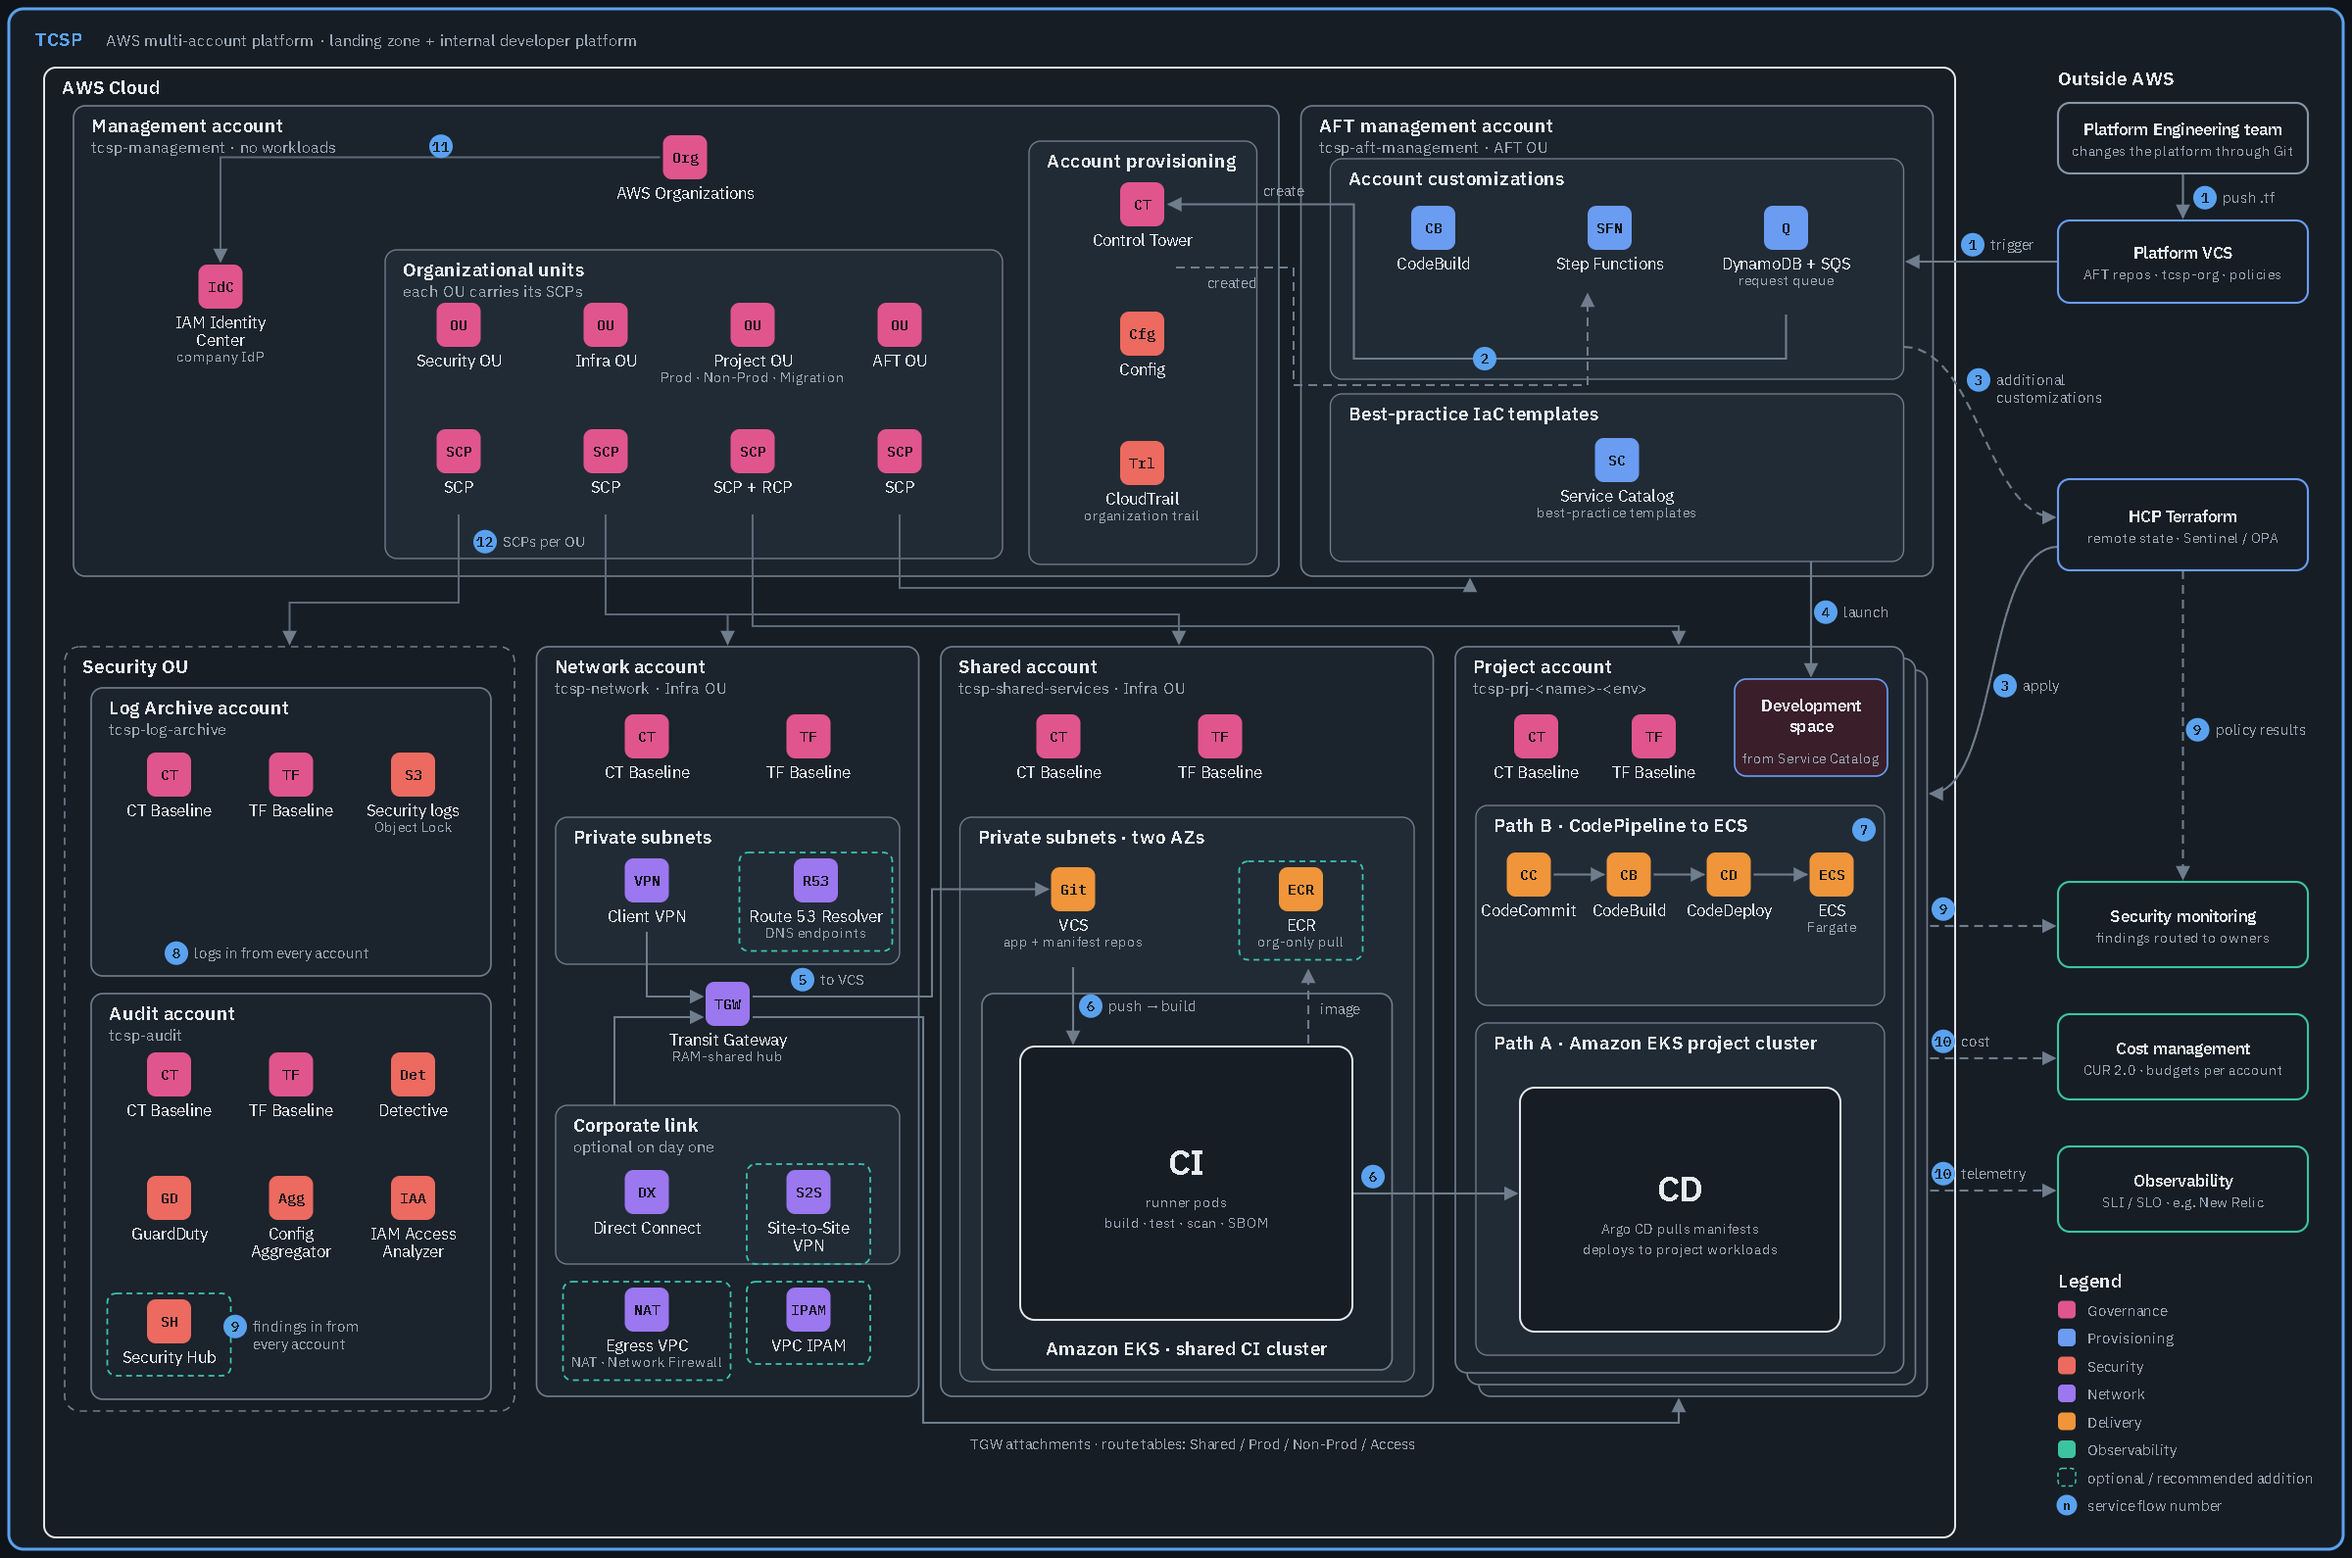
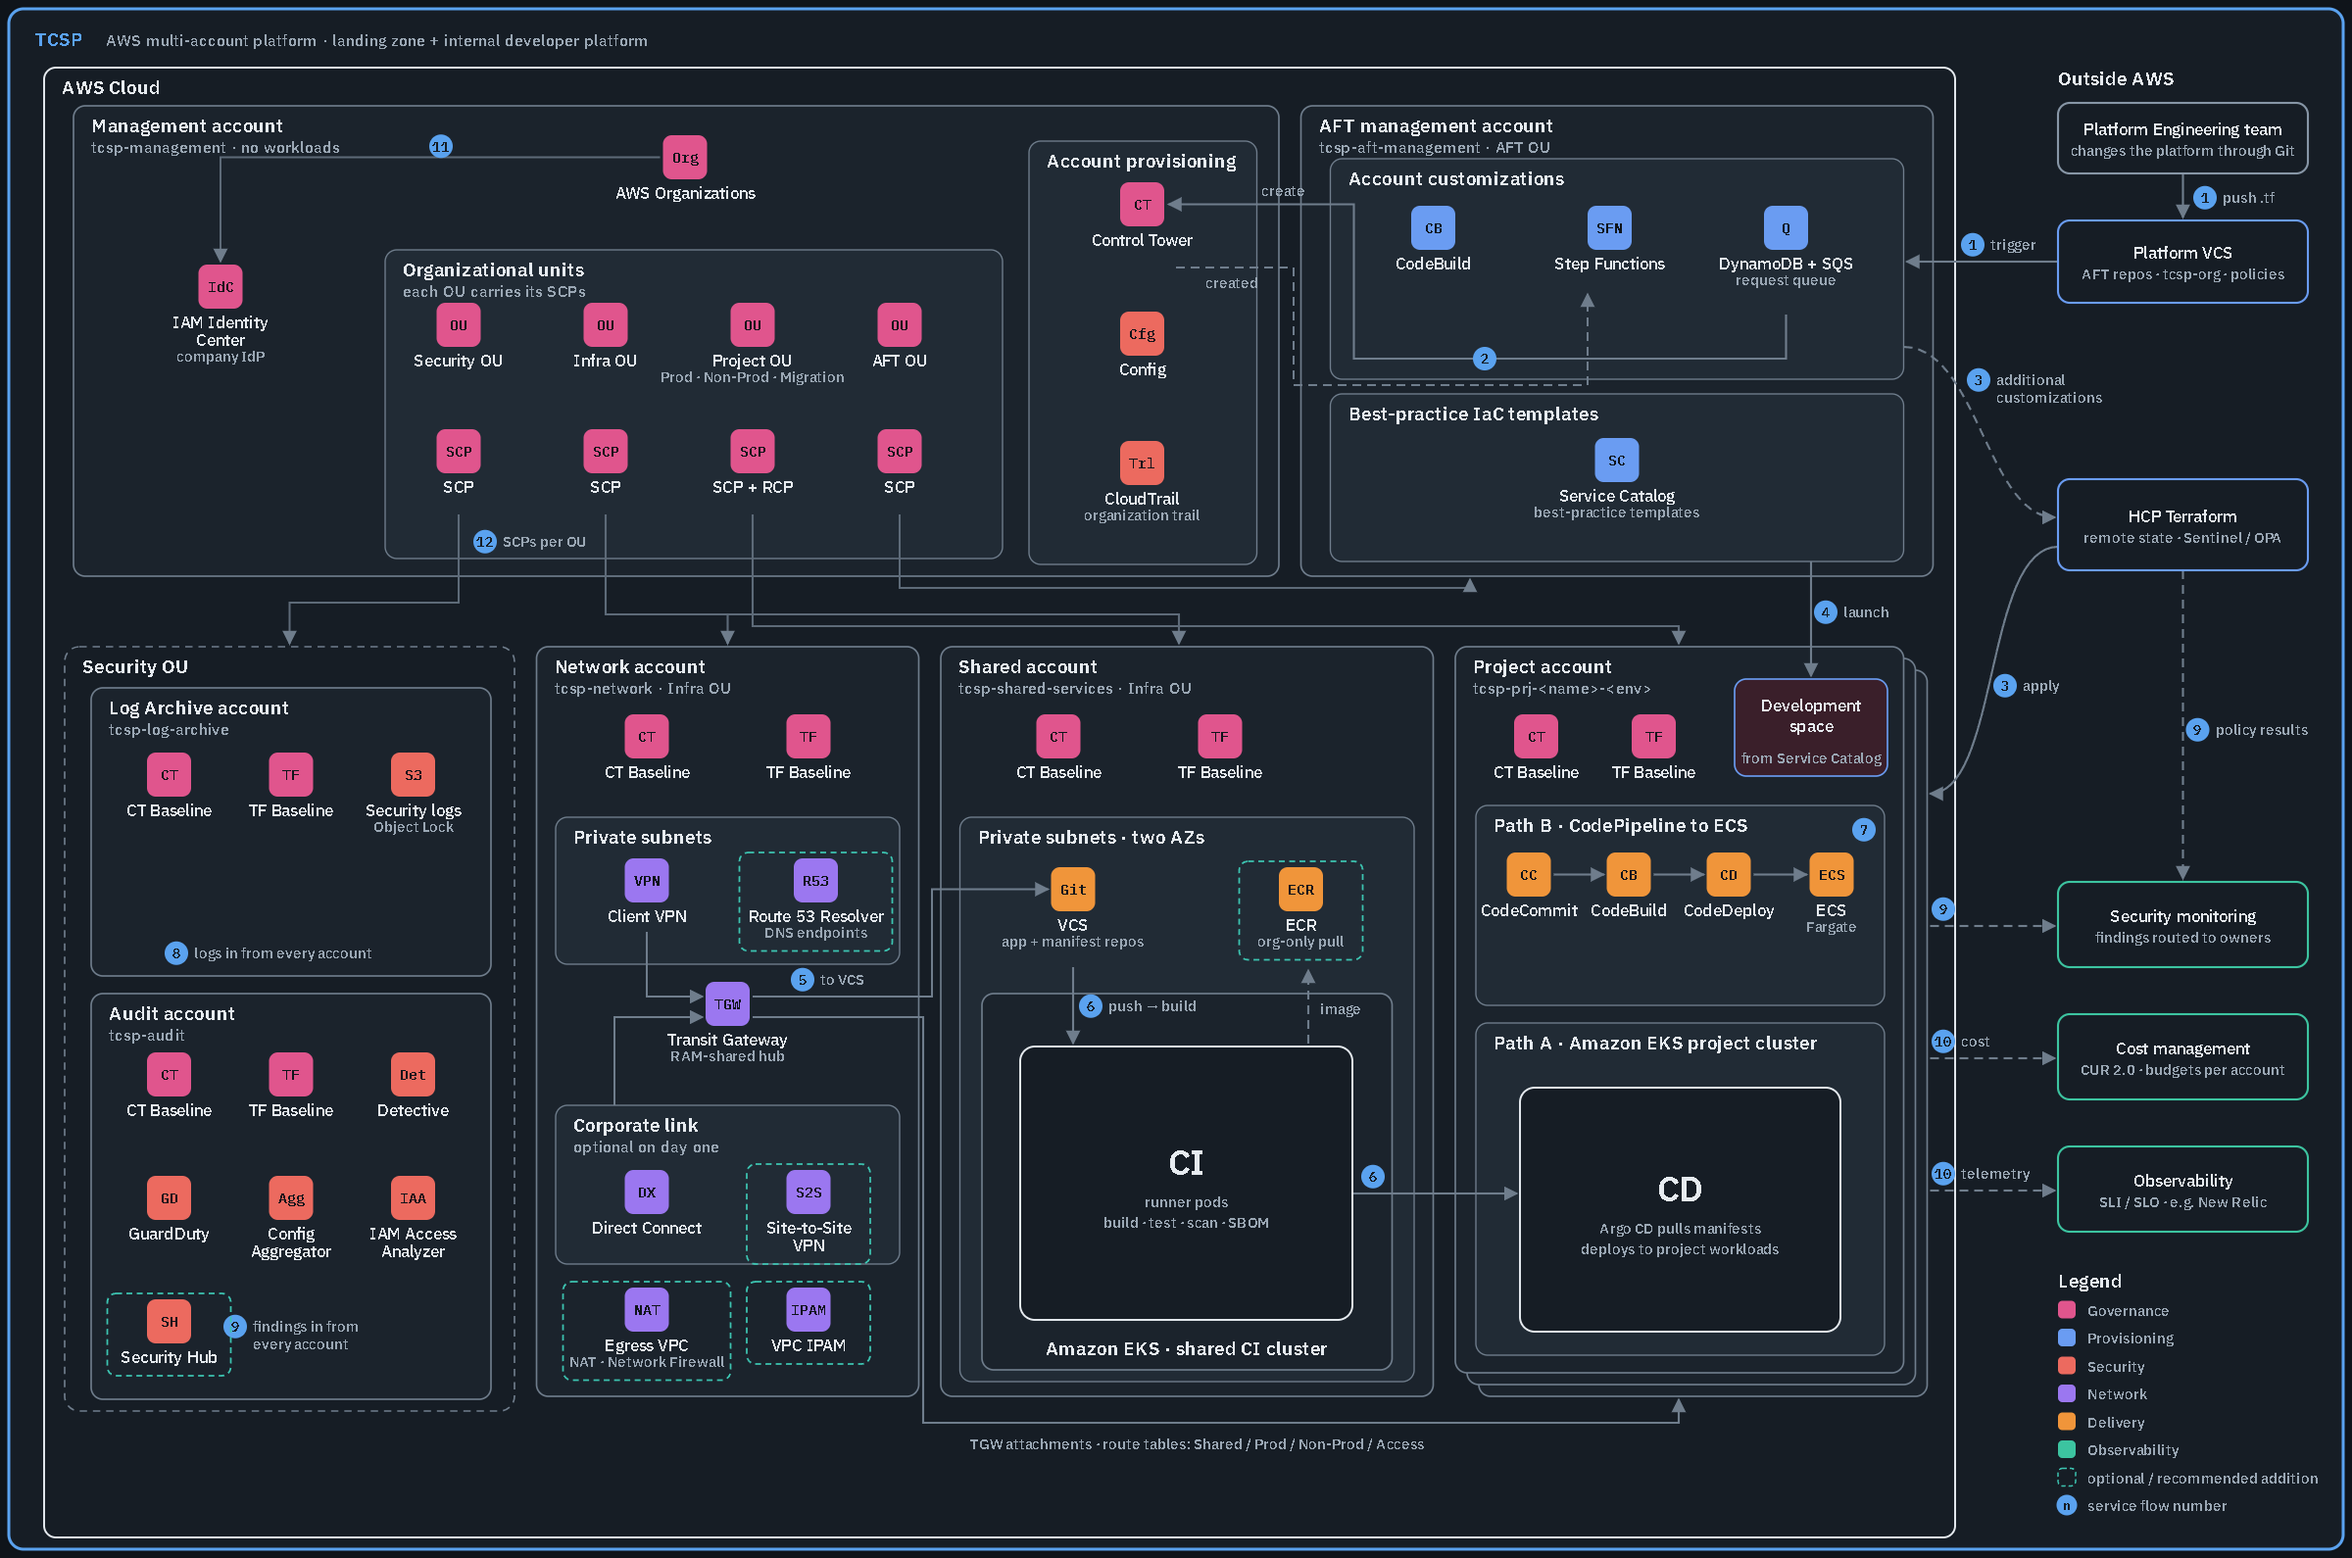
site: darker light-theme text, flow-lines toggle; README: who the platform is for; re-render images

diff --git a/site/index.html b/site/index.html
@@ -10,10 +10,10 @@
 <link href="https://fonts.googleapis.com/css2?family=IBM+Plex+Sans:wght@400;500;600&family=IBM+Plex+Mono:wght@500;600&display=swap" rel="stylesheet">
 <style>
 :root{
-  --bg:#f4f6f8; --surface:#ffffff; --ink:#17202a; --muted:#566372; --line:#8b97a5; --gov-line:#9aa5b2;
-  --accent:#0b5cad; --accent-soft:#e3eefa; --token:#e8890c; --token-soft:rgba(232,137,12,.22);
-  --ctr:#f8fafb; --ctr2:#eef1f4; --add:#0b8a7a; --dev:#fde8ee; --on-icon:#ffffff; --shadow:0 6px 24px rgba(16,24,40,.12);
-  --l-gov:#c0306b; --l-prov:#2f6bd6; --l-sec:#c8372d; --l-net:#6a3fcf; --l-del:#c8640a; --l-obs:#0e8a6a; --l-ppl:#4f5e6e;
+  --bg:#f1f4f7; --surface:#ffffff; --ink:#0b1219; --muted:#36424f; --line:#5f6c7a; --gov-line:#76828f;
+  --accent:#0a4f96; --accent-soft:#dde9f8; --token:#d97706; --token-soft:rgba(232,137,12,.22);
+  --ctr:#f7f9fb; --ctr2:#e7ecf1; --add:#08776a; --dev:#fde8ee; --on-icon:#ffffff; --shadow:0 6px 24px rgba(16,24,40,.12);
+  --l-gov:#b02a60; --l-prov:#2560c8; --l-sec:#b9302a; --l-net:#5f35c2; --l-del:#b35708; --l-obs:#0b7a5d; --l-ppl:#44515f;
   --f-body:"IBM Plex Sans",system-ui,-apple-system,"Segoe UI",sans-serif; --f-mono:"IBM Plex Mono",ui-monospace,Consolas,monospace;
   color-scheme:light;
 }
@@ -63,6 +63,9 @@ h1{font-weight:600;font-size:24px;margin:0;letter-spacing:.01em}
 .fchip:hover{border-color:var(--line)}
 .fchip[aria-pressed="true"]{border-color:var(--ink);background:var(--accent-soft);font-weight:500}
 .sw{width:12px;height:12px;border-radius:3px;display:inline-block;flex:none}
+.sep{width:1px;height:20px;background:var(--ctr2);margin:0 4px}
+.fchip.lines{padding:3px 11px}
+.fchip.lines svg{width:14px;height:14px}
 .legend{display:inline-flex;gap:14px;color:var(--muted);margin-left:auto;flex-wrap:wrap}
 .legend span{display:inline-flex;align-items:center;gap:6px}
 .sw.add{border:1.5px dashed var(--add);background:transparent}
@@ -78,15 +81,15 @@ svg#arch{display:block;width:100%;min-width:1100px;height:auto;font-family:var(-
 .ctr2{fill:var(--ctr2);stroke:var(--line);stroke-width:.9}
 .ctr.dash{fill:none;stroke-dasharray:5 4}
 .ctitle{font-size:12.5px;font-weight:600;fill:var(--ink)}
-.csub{font-size:10.5px;fill:var(--muted)}
-.lbl{font-size:11px;fill:var(--ink);text-anchor:middle}
-.sub{font-size:9.5px;fill:var(--muted);text-anchor:middle}
+.csub{font-size:10.5px;fill:var(--muted);font-weight:500}
+.lbl{font-size:11px;fill:var(--ink);text-anchor:middle;font-weight:500}
+.sub{font-size:9.8px;fill:var(--muted);text-anchor:middle;font-weight:500}
 .abbr{font-family:var(--f-mono);font-size:10px;font-weight:600;fill:var(--on-icon);text-anchor:middle;pointer-events:none}
 .big{font-size:24px;font-weight:600;fill:var(--ink);text-anchor:middle}
 .ci{fill:var(--surface);stroke:var(--ink);stroke-width:1.3}
 .extbox{fill:var(--surface);stroke-width:1.4}
 .devspace{fill:var(--dev);stroke:var(--l-prov);stroke-width:1.1}
-.alab{font-size:10px;fill:var(--muted)}
+.alab{font-size:10.2px;fill:var(--muted);font-weight:500}
 .badge circle{fill:var(--accent)}
 .badge text{font-family:var(--f-mono);font-size:9.5px;font-weight:600;fill:var(--surface);text-anchor:middle}
 
@@ -123,6 +126,9 @@ svg.focus .chip.acct.on .outline{stroke:var(--accent)}
 svg.focus .chip.acct.cur .outline{stroke:var(--token);stroke-width:3;animation:breathe 1.4s ease-in-out infinite}
 svg.focus .chip.cur .halo{opacity:1;stroke:var(--token);stroke-width:3;animation:pulse 1.3s ease-in-out infinite}
 svg.focus .chip.cur .hit{fill:var(--token-soft)}
+/* flow lines hidden: only a playing flow shows its own path */
+svg.nolines .wire-g:not(.on){opacity:0}
+svg.nolines .flowline{display:none}
 /* layer filter */
 svg.filtering .chip:not(.acct):not(.lay){opacity:.15}
 svg.filtering .wire-g{opacity:.18}
@@ -229,6 +235,8 @@ body.shot .flowline{display:none}
   <div class="filters" role="group" aria-label="Highlight a layer">
     <span class="lab">Highlight a layer:</span>
     <span id="fchips" style="display:contents"></span>
+    <span class="sep" aria-hidden="true"></span>
+    <button class="fchip lines" id="lines" type="button" aria-pressed="false" title="Hide the arrows to see just the accounts and services. A playing flow still shows its own path."><svg viewBox="0 0 16 16" aria-hidden="true"><path d="M1 8h10M8 4.5 11.5 8 8 11.5" fill="none" stroke="currentColor" stroke-width="1.6"/></svg><span>Hide flow lines</span></button>
     <span class="legend" aria-label="Legend">
       <span><i class="sw add"></i>optional / recommended addition</span>
       <span><i class="mini-badge">3</i>flow number</span>
@@ -277,7 +285,6 @@ body.shot .flowline{display:none}
     <h2 id="flows-h">Service flows</h2>
     <p class="hint">Pick a flow to play it step by step. Flows 1 to 4 build accounts, 5 to 7 ship software, 8 to 10 watch it, 11 and 12 control access.</p>
     <ol class="flows" id="flows"></ol>
-    <div class="row"><button class="btn" id="reset" type="button">Show everything</button></div>
   </section>
   <section class="panel" id="detail" aria-labelledby="detail-h"></section>
 </div>
@@ -639,7 +646,8 @@ $("pl-next").addEventListener("click",()=>step(1));
 $("pl-close").addEventListener("click",()=>stopAll());
 player.querySelectorAll(".speed button").forEach(b=>b.addEventListener("click",()=>{E.speed=+b.dataset.s;player.querySelectorAll(".speed button").forEach(x=>x.setAttribute("aria-pressed",String(x===b)));}));
 tourBtn.addEventListener("click",()=>{if(E.mode==="tour")stopAll();else startTour();});
-$("reset").addEventListener("click",()=>{stopAll();clearFilter();clearSel();overview();setHash(null);});
+const linesBtn=$("lines");
+linesBtn.addEventListener("click",()=>{const off=!svg.classList.contains("nolines");svg.classList.toggle("nolines",off);linesBtn.setAttribute("aria-pressed",String(off));linesBtn.querySelector("span").textContent=off?"Show flow lines":"Hide flow lines";});
 document.addEventListener("keydown",e=>{const t=e.target;if(t&&(t.tagName==="INPUT"||t.tagName==="TEXTAREA"))return;
   if(e.key==="Escape"){if(E.mode)stopAll();else if(FSET.size)clearFilter();}
   else if(E.mode&&e.key==="ArrowRight"&&!e.altKey){step(1);}

diff --git a/README.md b/README.md
@@ -73,6 +73,14 @@ Teams that do not want Kubernetes use Path B (flow 7): CodeCommit, CodeBuild, Co
 
 A short, calm walkthrough of why the platform is needed and what it does: [`video/tcsp-explainer.mp4`](video/tcsp-explainer.mp4).
 
+## Benefits: who the platform is for
+
+1. **Organizations with many product teams on AWS.** Once 10 or more teams each need their own environments, per-team setup of accounts, networks and access stops scaling. TCSP turns every new account into the same reviewed Git change, so the hundredth account is as easy as the first.
+2. **Regulated teams that must prove control.** In finance, health, the public sector and other audited areas, every account needs tamper-proof logs, central findings and enforced policies. TCSP builds these in when the account is created, so audit evidence exists without per-team effort.
+3. **Teams that ship often and cannot wait on tickets.** Product and microservice teams that deploy daily need admin rights and a working pipeline on day one. Guardrails replace approval queues, and the golden paths (shared CI with CD on EKS, or CodePipeline to ECS) remove weeks of tooling setup.
+4. **Small platform or cloud teams serving a large engineering org.** A handful of platform engineers cannot hand-build environments for hundreds of developers. TCSP lets them own the shared parts as code and scale through self-service instead of headcount.
+5. **Companies consolidating sprawl or migrating existing accounts.** After acquisitions, shadow accounts or earlier landing zones, many organizations have inconsistent networks, duplicate CI and unknown spend. TCSP gives one org structure, one network hub and per-account cost, plus a tested path for moving existing production accounts in.
+
 ## Documentation map
 
 | Document | What it covers |
